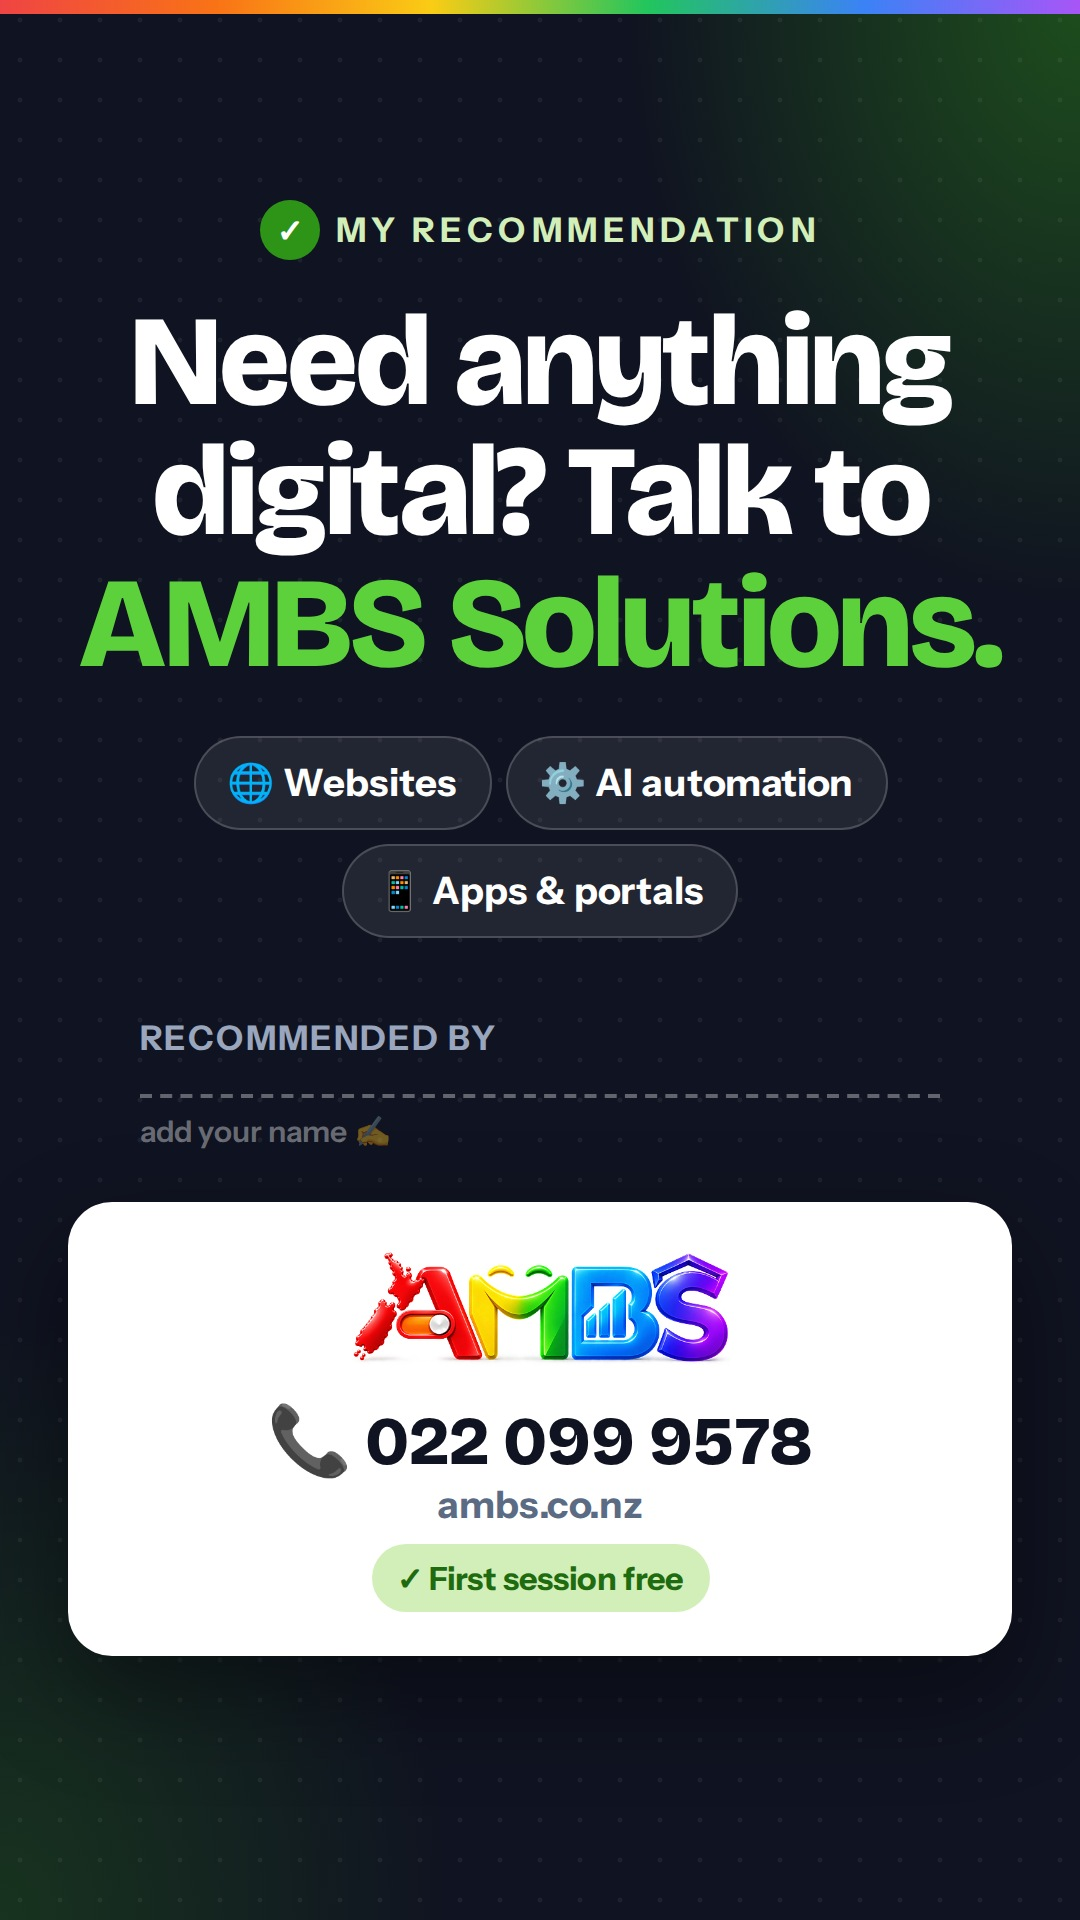
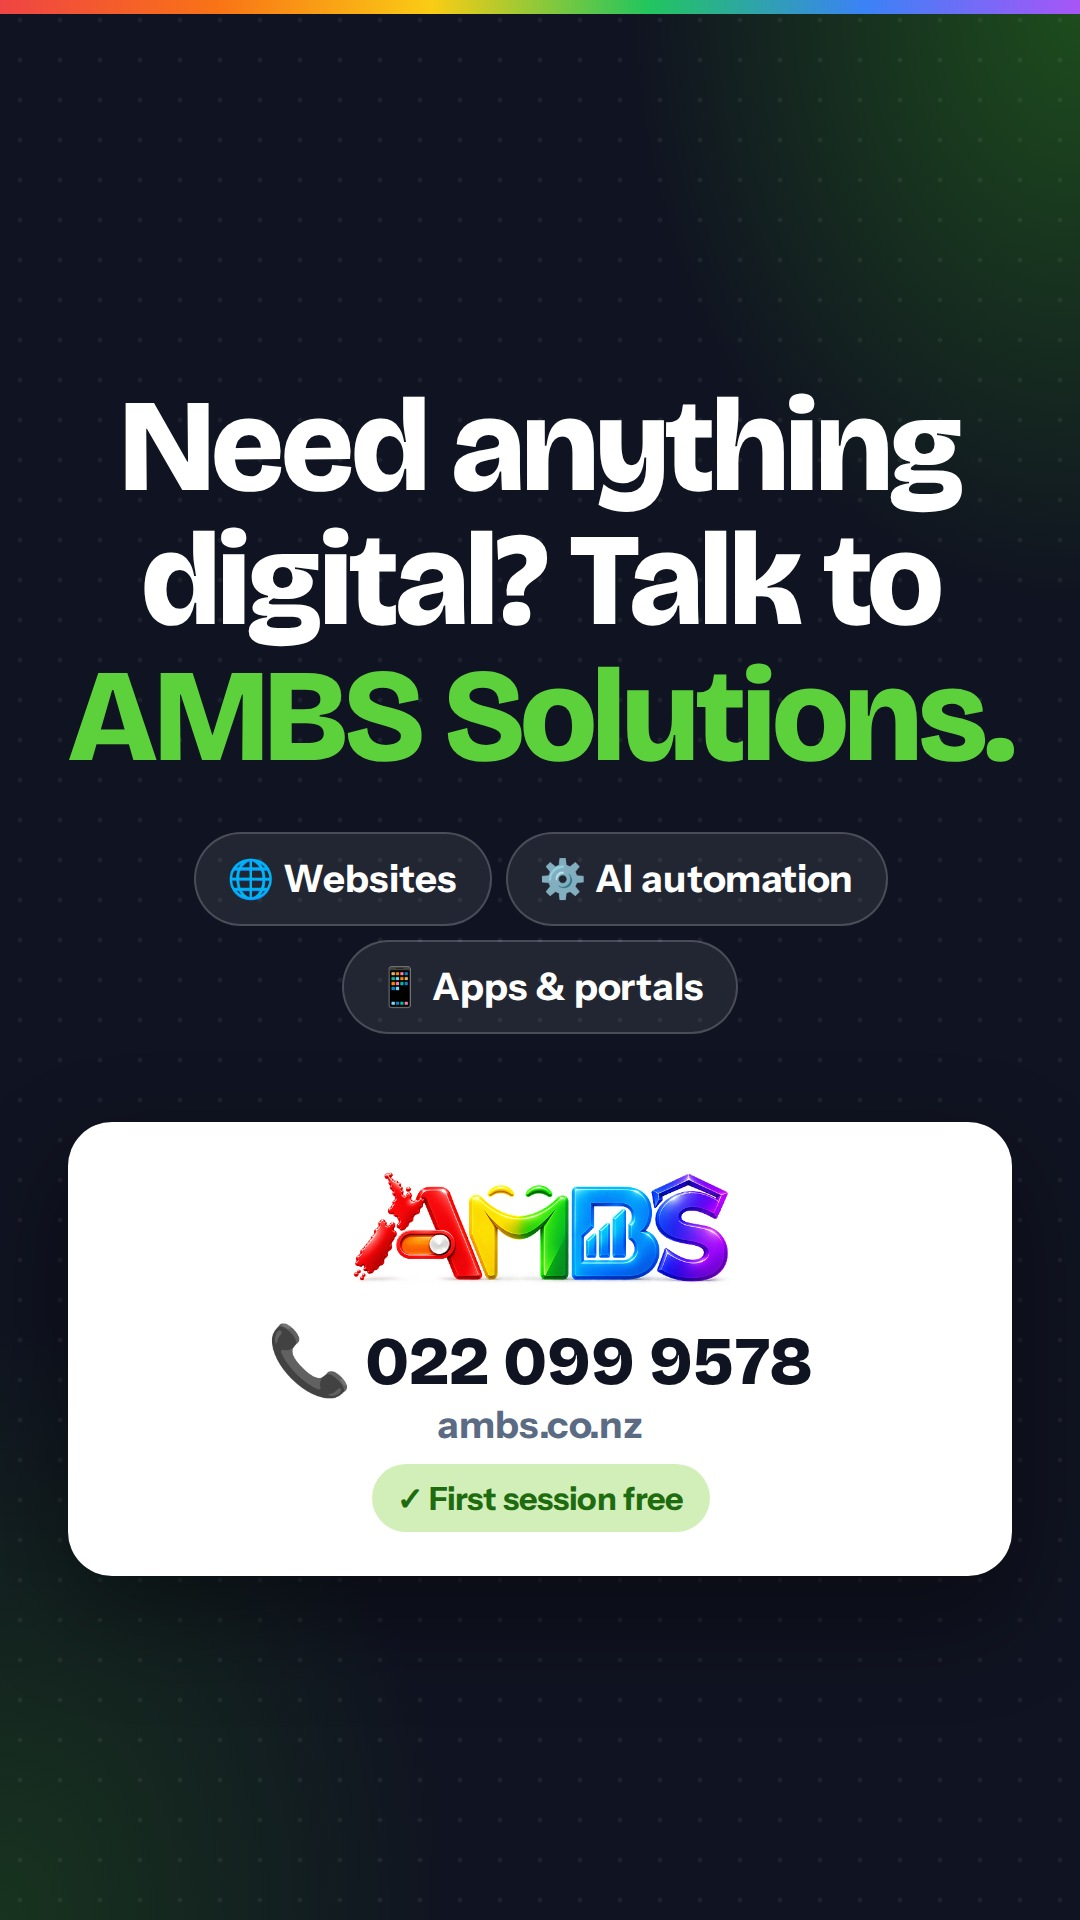
Share kit: remove recommendation wording so anyone can just share it
Claude-Session: https://claude.ai/code/session_01UEFq6Row7p6wmTAvf3EyaN

Changed region(s): [[0.0611, 0.0938, 0.9472, 0.875]]

diff --git a/marketing-videos/posters/18a-recommend-square.html b/marketing-videos/posters/18a-recommend-square.html
@@ -1,21 +1,20 @@
 <!doctype html>
-<html lang="en-NZ"><head><meta charset="utf-8"><title>Poster — I recommend AMBS (square 1080x1080)</title>
+<html lang="en-NZ"><head><meta charset="utf-8"><title>Poster — share AMBS (square 1080x1080)</title>
 <link rel="stylesheet" href="../engine/base.css"><link rel="stylesheet" href="_endorse.css">
 <style>
   #frame { height: 540px; margin-top: -270px; }
-  .txt { position: absolute; left: 32px; right: 32px; top: 40px; }
-  h1 { margin-top: 14px; font-size: 44px; padding-right: 0; }
-  .svc { margin-top: 18px; }
+  .txt { position: absolute; left: 34px; right: 34px; top: 58px; }
+  h1 { font-size: 50px; } .svc span { font-size: 16px; padding: 8px 13px; }
+  .svc { margin-top: 22px; }
   .by { position: absolute; left: 0; width: 210px; top: 330px; }
-  .card { position: absolute; right: 32px; bottom: 32px; width: 230px; padding: 14px; text-align: center; }
-  .card .p { font-size: 22px; margin-top: 4px; } .card .w { font-size: 12px; }</style></head><body>
+  .card { position: absolute; left: 34px; right: 34px; bottom: 34px; padding: 16px 20px; display: grid; grid-template-columns: auto 1fr; gap: 2px 18px; align-items: center; }
+  .card .logo { grid-row: span 3; width: 150px; } .card .free { justify-self: start; margin-top: 4px; }
+  .card .p { font-size: 24px; } .card .w { font-size: 15px; }</style></head><body>
 <div id="frame">
   <div class="stripe"></div>
   <div class="txt">
-    <div class="k"><i>✓</i>MY RECOMMENDATION</div>
     <h1 class="hd">Need anything digital? Talk to <em>AMBS Solutions.</em></h1>
     <div class="svc"><span>🌐 Websites</span><span>⚙ AI automation</span><span>📱 Apps &amp; portals</span></div>
-    <div class="by">RECOMMENDED BY<span class="ln"></span><small>add your name ✍</small></div>
   </div>
   <div class="card"><img class="logo" src="../assets/ambs-logo.png" alt="AMBS Solutions"><div class="p hd">📞 022 099 9578</div><div class="w">ambs.co.nz</div><div class="free">✓ First session free</div></div>
 </div></body></html>

diff --git a/marketing-videos/posters/18c-recommend-story.html b/marketing-videos/posters/18c-recommend-story.html
@@ -1,23 +1,21 @@
 <!doctype html>
-<html lang="en-NZ"><head><meta charset="utf-8"><title>Poster — I recommend AMBS (story and status 1080x1920)</title>
+<html lang="en-NZ"><head><meta charset="utf-8"><title>Poster — share AMBS (story and status 1080x1920)</title>
 <link rel="stylesheet" href="../engine/base.css"><link rel="stylesheet" href="_endorse.css">
 <style>
-  .txt { position: relative; margin: 100px 30px 0; text-align: center; }
-  h1 { margin-top: 18px; font-size: 64px; }
+  .txt { position: relative; margin: 190px 30px 0; text-align: center; }
+  h1 { font-size: 66px; }
   .k { font-size: 17px; } .k i { width: 30px; height: 30px; font-size: 16px; }
   .svc { margin-top: 24px; justify-content: center; }
   .svc span { font-size: 19px; padding: 11px 16px; }
   .by { margin: 40px auto 0; width: 400px; text-align: left; font-size: 17px; } .by small { font-size: 15px; }
-  .card { position: relative; margin: 26px 34px 0; padding: 20px 18px 22px; text-align: center; }
+  .card { position: relative; margin: 44px 34px 0; padding: 20px 18px 22px; text-align: center; }
   .card .logo { width: 190px; } .card .w { font-size: 19px; } .card .free { font-size: 16px; padding: 7px 13px; }
   .card .p { margin-top: 6px; font-size: 34px; }</style></head><body>
 <div id="frame">
   <div class="stripe"></div>
   <div class="txt">
-    <div class="k"><i>✓</i>MY RECOMMENDATION</div>
     <h1 class="hd">Need anything digital? Talk to <em>AMBS Solutions.</em></h1>
     <div class="svc"><span>🌐 Websites</span><span>⚙ AI automation</span><span>📱 Apps &amp; portals</span></div>
-    <div class="by">RECOMMENDED BY<span class="ln"></span><small>add your name ✍</small></div>
   </div>
   <div class="card"><img class="logo" src="../assets/ambs-logo.png" alt="AMBS Solutions"><div class="p hd">📞 022 099 9578</div><div class="w">ambs.co.nz</div><div class="free">✓ First session free</div></div>
 </div></body></html>

diff --git a/marketing-videos/posters/18b-recommend-feed.html b/marketing-videos/posters/18b-recommend-feed.html
@@ -1,21 +1,19 @@
 <!doctype html>
-<html lang="en-NZ"><head><meta charset="utf-8"><title>Poster — I recommend AMBS (feed 1080x1350)</title>
+<html lang="en-NZ"><head><meta charset="utf-8"><title>Poster — share AMBS (feed 1080x1350)</title>
 <link rel="stylesheet" href="../engine/base.css"><link rel="stylesheet" href="_endorse.css">
 <style>
   #frame { height: 675px; margin-top: -337.5px; }
-  .txt { position: absolute; left: 34px; right: 34px; top: 64px; }
-  h1 { margin-top: 16px; font-size: 56px; padding-right: 0; }
-  .svc { margin-top: 22px; }
+  .txt { position: absolute; left: 34px; right: 34px; top: 96px; }
+  h1 { font-size: 62px; } .svc span { font-size: 17px; padding: 9px 14px; }
+  .svc { margin-top: 28px; }
   .by { margin-top: 24px; width: 300px; }
   .card { position: absolute; left: 34px; right: 34px; bottom: 34px; padding: 16px 20px; display: grid; grid-template-columns: auto 1fr; gap: 2px 18px; align-items: center; }
   .card .logo { grid-row: span 3; width: 160px; } .card .free { justify-self: start; margin-top: 4px; }</style></head><body>
 <div id="frame">
   <div class="stripe"></div>
   <div class="txt">
-    <div class="k"><i>✓</i>MY RECOMMENDATION</div>
     <h1 class="hd">Need anything digital? Talk to <em>AMBS Solutions.</em></h1>
     <div class="svc"><span>🌐 Websites</span><span>⚙ AI automation</span><span>📱 Apps &amp; portals</span></div>
-    <div class="by">RECOMMENDED BY<span class="ln"></span><small>add your name ✍</small></div>
   </div>
   <div class="card"><img class="logo" src="../assets/ambs-logo.png" alt="AMBS Solutions"><div class="p hd">📞 022 099 9578</div><div class="w">ambs.co.nz</div><div class="free">✓ First session free</div></div>
 </div></body></html>

diff --git a/marketing-videos/posters/18d-recommend-landscape.html b/marketing-videos/posters/18d-recommend-landscape.html
@@ -1,12 +1,12 @@
 <!doctype html>
-<html lang="en-NZ"><head><meta charset="utf-8"><title>Poster — I recommend AMBS (link post 1200x628)</title>
+<html lang="en-NZ"><head><meta charset="utf-8"><title>Poster — share AMBS (link post 1200x628)</title>
 <link rel="stylesheet" href="../engine/base.css"><link rel="stylesheet" href="_endorse.css">
 <style>
   #frame { width: 600px; height: 314px; margin: -157px 0 0 -300px; }
   .stripe { height: 5px; }
-  .txt { position: absolute; left: 28px; top: 26px; width: 330px; }
+  .txt { position: absolute; left: 30px; top: 50%; transform: translateY(-50%); width: 330px; }
   .k { font-size: 10.5px; } .k i { width: 20px; height: 20px; font-size: 12px; }
-  h1 { margin-top: 10px; font-size: 33px; }
+  h1 { font-size: 36px; }
   .svc { margin-top: 12px; gap: 5px; } .svc span { font-size: 11px; padding: 5px 9px; }
   .by { display: none; }
   .card { position: absolute; right: 24px; top: 50%; transform: translateY(-50%); width: 200px; padding: 14px; text-align: center; }
@@ -14,10 +14,8 @@
 <div id="frame">
   <div class="stripe"></div>
   <div class="txt">
-    <div class="k"><i>✓</i>MY RECOMMENDATION</div>
     <h1 class="hd">Need anything digital? Talk to <em>AMBS Solutions.</em></h1>
     <div class="svc"><span>🌐 Websites</span><span>⚙ AI automation</span><span>📱 Apps &amp; portals</span></div>
-    <div class="by">RECOMMENDED BY<span class="ln"></span><small>add your name ✍</small></div>
   </div>
   <div class="card"><img class="logo" src="../assets/ambs-logo.png" alt="AMBS Solutions"><div class="p hd">📞 022 099 9578</div><div class="w">ambs.co.nz</div><div class="free">✓ First session free</div></div>
 </div></body></html>
